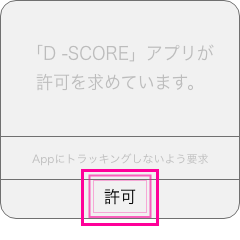
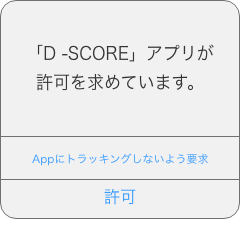
ATTダイアログの変更 要望のあった技の追加

diff --git a/lib/data/hb.dart b/lib/data/hb.dart
@@ -11,6 +11,7 @@ Map<String, int> hbGroup = {
   "前方片手車輪": 1,
   "後方片手車輪": 1,
   "大逆手車輪": 1,
+  "シュタイネマン": 1,
   "ボローニン": 2,
   "ワイラー": 3,
   "ワイラーひねり倒立": 3,
@@ -24,6 +25,8 @@ Map<String, int> hbGroup = {
   "ホップターン": 1,
   "ツォ・リミン": 1,
   "クースト": 1,
+  "後ろ振り出し順手背面懸垂": 1,
+  "逆手反面車輪": 1,
   "マルケロフ": 2,
   "開脚トカチェフ": 2,
   "イエーガー": 2,
@@ -52,7 +55,6 @@ Map<String, int> hbGroup = {
   "シュタルダーホップハーフ片大逆手": 3,
   "アドラーハーフ": 3,
   "アドラー1回ひねり片逆手": 3,
-  // "大逆手エンドー1回ひねり逆手倒立": 3,
   "後方伸身ムーンサルト": 4,
   //E
   "モズニク(伸身トカチェフハーフ)": 2,
@@ -95,6 +97,7 @@ Map<String, int> hbDifficulty = {
   "前方片手車輪": 2,
   "後方片手車輪": 2,
   "大逆手車輪": 2,
+  "シュタイネマン": 2,
   "ボローニン": 2,
   "ワイラー": 2,
   "ワイラーひねり倒立": 2,
@@ -107,6 +110,7 @@ Map<String, int> hbDifficulty = {
   "ホップターン": 3,
   "ツォ・リミン": 3,
   "クースト": 3,
+  "後ろ振り出し順手背面懸垂": 3,
   "マルケロフ": 3,
   "開脚トカチェフ": 3,
   "イエーガー": 3,
@@ -115,6 +119,7 @@ Map<String, int> hbDifficulty = {
   "ワイラー1回ひねり片大逆手": 3,
   "エンドー1回ひねり片大逆手": 3,
   "シュタルダーひねり大逆手": 3,
+  "シュタルダーホップターン": 3,
   "アドラー": 3,
   "大逆手エンドー": 3,
   "後方抱え込みムーンサルト": 3,
@@ -130,11 +135,9 @@ Map<String, int> hbDifficulty = {
   "コバチ": 4,
   "ワイラー1回ひねり大逆手": 4,
   "エンドー1回ひねり大逆手": 4,
-  "シュタルダーホップターン": 4,
   "シュタルダーホップハーフ片大逆手": 4,
   "アドラーハーフ": 4,
   "アドラー1回ひねり片逆手": 4,
-  // "大逆手エンドー1回ひねり逆手倒立": 4,
   "後方伸身ムーンサルト": 4,
   "モズニク(伸身トカチェフハーフ)": 5,
   "伸身ピアッティー": 5,

diff --git a/lib/data/ph.dart b/lib/data/ph.dart
@@ -7,6 +7,7 @@ Map<String, int> phGroup = {
   "縦向き旋回": 2,
   "外向き旋回": 2,
   "サイド旋回": 2,
+  "リア": 2,
   "移行": 3,
   "下向き転向下り": 4,
   //B難度
@@ -26,6 +27,7 @@ Map<String, int> phGroup = {
   "前移動": 3,
   "Cトンフェイ": 3,
   "ウルジカ": 3,
+  "クロル": 3,
   "ロシアン720°(900°)転向下り": 4,
   "C下り(シュテクリA)": 4,
   "C下り(逆リアー)": 4,
@@ -36,6 +38,7 @@ Map<String, int> phGroup = {
   "シュピンデル": 2,
   "Dフロップ": 2,
   "Dコンバイン": 2,
+  "ロシアン1080°": 2,
   "マジャール(前移動)": 3,
   "シバド(後ろ移動)": 3,
   "モギルニー": 3,
@@ -74,6 +77,7 @@ Map<String, int> phDifficulty = {
   "縦向き旋回": 1,
   "外向き旋回": 1,
   "サイド旋回": 1,
+  "リア": 1,
   "移行": 1,
   "下向き転向下り": 1,
   "セアーとび横移動": 2,
@@ -91,6 +95,7 @@ Map<String, int> phDifficulty = {
   "前移動": 3,
   "Cトンフェイ": 3,
   "ウルジカ": 3,
+  "クロル": 3,
   "ロシアン720°(900°)転向下り": 3,
   "C下り(シュテクリA)": 3,
   "C下り(逆リアー)": 3,
@@ -100,6 +105,7 @@ Map<String, int> phDifficulty = {
   "シュピンデル": 4,
   "Dフロップ": 4,
   "Dコンバイン": 4,
+  "ロシアン1080°": 2,
   "マジャール(前移動)": 4,
   "シバド(後ろ移動)": 4,
   "モギルニー": 4,

diff --git a/lib/data/fx.dart b/lib/data/fx.dart
@@ -1,6 +1,7 @@
 Map<String, int> fxGroup = {
   //A難度
   '前後(左右)開脚': 1,
+  "転回": 1,
   "前宙": 2,
   "前宙ハーフ": 2,
   "後方宙返り": 3,
@@ -11,6 +12,7 @@ Map<String, int> fxGroup = {
   "シンピ(伸肘)倒立": 1,
   "閉脚上水平": 1,
   "開脚シュピンデル": 1,
+  "屈伸宙返り伏せ": 1,
   "前方伸身宙返り": 2,
   "前方抱え込み1回ひねり": 2,
   "前方伸身半分ひねり": 2,
@@ -72,6 +74,7 @@ Map<String, int> fxGroup = {
 
 Map<String, int> fxDifficulty = {
   '前後(左右)開脚': 1,
+  "転回": 1,
   "前宙": 1,
   "前宙ハーフ": 1,
   "後方宙返り": 1,
@@ -81,6 +84,7 @@ Map<String, int> fxDifficulty = {
   "シンピ(伸肘)倒立": 2,
   "閉脚上水平": 2,
   "開脚シュピンデル": 2,
+  "屈伸宙返り伏せ": 2,
   "前方伸身宙返り": 2,
   "前方抱え込み1回ひねり": 2,
   "前方伸身半分ひねり": 2,
@@ -136,11 +140,11 @@ Map<String, int> fxDifficulty = {
 List<String> fxChipWords = [
   '前方',
   '後方',
-  'ダブル',
-  "抱え込み",
-  "伸身",
   "1回",
   "2回",
   "3回",
+  'ダブル',
+  "抱え込み",
+  "伸身",
   '倒立'
 ];

diff --git a/lib/screens/intro/intro_screen.dart b/lib/screens/intro/intro_screen.dart
@@ -115,7 +115,7 @@ class IntroScreen extends StatelessWidget {
                   SizedBox(height: 12),
                   Divider(color: Colors.black54),
                   Text(
-                    'お客様により適した広告表示のために、次の画面で「許可」することをお勧めします。',
+                    '次の画面で「許可」を選択すると、お客様により適した広告が表示されます。',
                     style: TextStyle(fontStyle: FontStyle.italic),
                   ),
                   Divider(color: Colors.black54),
